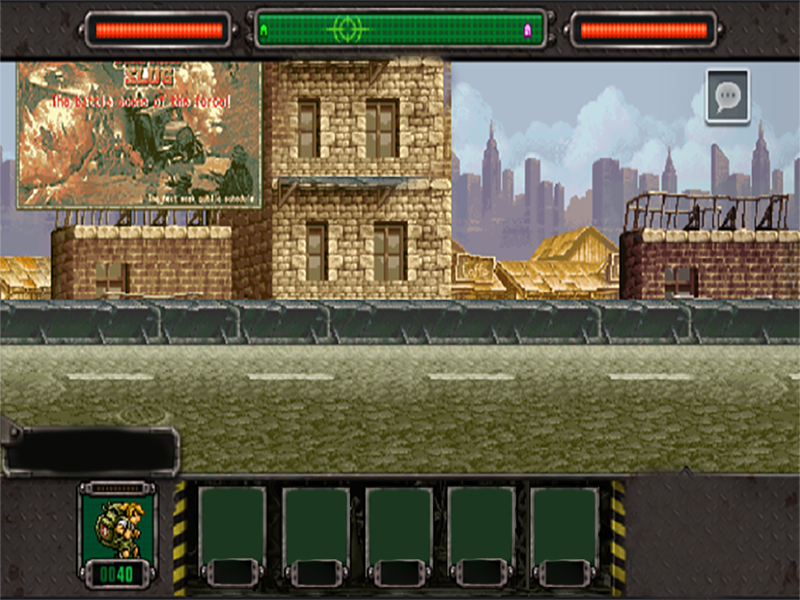
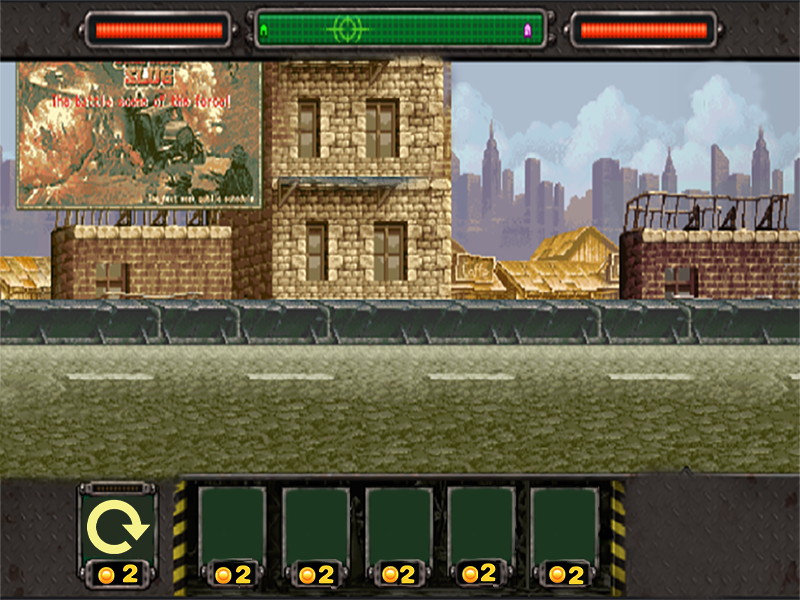
남은 구현 사항 합성 리롤

diff --git a/2d게임 최종프로젝트/Marco.py b/2d게임 최종프로젝트/Marco.py
@@ -6,6 +6,7 @@ import game_framework
 import main_state
 from BehaviorTree import BehaviorTree, SelectorNode, SequenceNode, LeafNode
 from pynput.mouse import Controller
+import Bullet
 
 # gun_c Action Speed
 TIME_PER_ACTION = 0.5
@@ -24,49 +25,46 @@ key_event_table = {
 
 class Idle_State:
     @staticmethod
-    def enter(double_gun_chac, event):
+    def enter(marco, event):
         if event == Left_Mouse_Down:
             global x, y
             # 이미 눌러진 상태면은 이동
-            if double_gun_chac.selected and double_gun_chac.attack_state == False:
-                double_gun_chac.x = x
-                double_gun_chac.y = 600 - 1 - y
-                double_gun_chac.selected = False
+            if marco.selected and marco.attack_state == False:
+                marco.x = x
+                marco.y = 600 - 1 - y
+                marco.selected = False
                 main_state.Money -= 2
             # 캐릭터 클릭 및 취소
             else:
-                if double_gun_chac.x - 50 < x < double_gun_chac.x + 50 and \
-                        double_gun_chac.y - 50 < 600 - y - 1 < double_gun_chac.y + 50:
-                    double_gun_chac.selected = True
+                if marco.x - 50 < x < marco.x + 50 and \
+                        marco.y - 50 < 600 - y - 1 < marco.y + 50:
+                    marco.selected = True
                 else:
-                    double_gun_chac.selected = False
+                    marco.selected = False
         pass
 
     @staticmethod
-    def exit(double_gun_chac, event):
+    def exit(marco, event):
         pass
 
     @staticmethod
-    def do(double_gun_chac):
-        double_gun_chac.frame = (double_gun_chac.frame + 1) % 6
-        double_gun_chac.attack_frame = (double_gun_chac.attack_frame + 1) % 6
+    def do(marco):
+        marco.frame = (marco.frame + 1) % 3
+        marco.attack_frame = (marco.attack_frame + 1) % 4
         pass
 
     @staticmethod
-    def draw(double_gun_chac):
-        if not double_gun_chac.attack_state:
-            double_gun_chac.image.clip_draw(double_gun_chac.frame * 100, 0, 100, 100, double_gun_chac.x,
-                                            double_gun_chac.y)
-            double_gun_chac.image_hp.clip_draw(0, 0, double_gun_chac.hp, 11, double_gun_chac.x - 13, double_gun_chac.y - 50)
-            if double_gun_chac.selected:
-                draw_rectangle(*double_gun_chac.get_bb())
+    def draw(marco):
+        if not marco.attack_state:
+            marco.image.clip_draw(marco.frame * 100, 200, 100, 100, marco.x, marco.y)
+            marco.image_hp.clip_draw(0, 0, marco.hp, 11, marco.x - 13, marco.y - 50)
+            if marco.selected:
+                draw_rectangle(*marco.get_bb())
         else:
-            double_gun_chac.image.clip_draw(double_gun_chac.frame * 100, 200, 80, 100, double_gun_chac.x,
-                                            double_gun_chac.y)
-            double_gun_chac.image_attack.clip_draw(double_gun_chac.attack_frame * 130, 0, 120, 150,
-                                                   double_gun_chac.x + 70, double_gun_chac.y + 40)
-            double_gun_chac.image_hp.clip_draw(0, 0, double_gun_chac.hp, 11, double_gun_chac.x - 13, double_gun_chac.y - 50)
-            double_gun_chac.mp += 10
+            marco.image.clip_draw(marco.attack_frame * 100, 0, 100, 100, marco.x, marco.y + 5)
+            marco.image_hp.clip_draw(0, 0, marco.hp, 11, marco.x - 13, marco.y - 50)
+
+            marco.mp += 10
 
         delay(0.15)
         pass
@@ -77,20 +75,20 @@ next_state_table = {
 }
 
 
-class Double_Gun_Character:
-    image =None
+class Marco:
+    bullet = None
+    image = None
     def __init__(self):
-        self.x, self.y = 230, 85
-        if Double_Gun_Character.image == None:
-            self.image = load_image('image/Double_gun_mode.png')
-            self.image_attack = load_image('image/gun_fire2.png')
+        self.x, self.y = 320, 180
+        if Marco.image ==None:
+            self.image = load_image('image/marco.png')
             self.image_hp = load_image('image/hp.png')
         self.attack_frame = 0
         self.frame = 0
         self.hp = 100
         self.mp = 0
+        self.damage = 5
         self.attack_state = False
-        self.attack_damage = 5
         self.event_que = []
         self.cur_state = Idle_State
         self.cur_state.enter(self, None)

diff --git a/2d게임 최종프로젝트/main_state.py b/2d게임 최종프로젝트/main_state.py
@@ -1,16 +1,22 @@
-import random
-import json
-import os
-import  game_world
-
 from pico2d import *
-
+import game_world
 import game_framework
 import title_state
-import Member_function
-from Map import Game_Map
+import clear_stage
 from Double_Gun_Charcter import Double_Gun_Character
+from Map import Game_Map
 from zombie_female import Zombie
+from Marco import Marco
+from Bullet import Bullet
+'''''''''
+남은 구현 사항
+합성
+리롤
+게임 돈 표시
+스테이지 남은 몹 표시
+엔딩 보스몹
+마르코 공격 상태
+'''''''''
 
 name = "MainState"
 
@@ -18,13 +24,25 @@ game_map = None
 double_gun_character = None
 zombie = None
 double_gun_character1 = None
+marco = None
+bullets = None
+fire = False
+Money = 50
+stage = 2
 
 
 def enter():
-    global game_map, double_gun_character, zombie
+    global game_map, double_gun_character, zombie, marco, bullets
+
+    marco = Marco()
+    bullets = [Bullet()]
     game_map = Game_Map()
     double_gun_character = Double_Gun_Character()
     zombie = Zombie()
+    game_world.add_object(game_map, 0)
+    game_world.add_object(zombie, 1)
+    game_world.add_object(double_gun_character, 1)
+    game_world.add_object(marco, 1)
     pass
 
 
@@ -41,10 +59,7 @@ def collide(a, b):
 
 
 def exit():
-    global game_map, double_gun_character,zombie
-    del game_map
-    del double_gun_character
-    del zombie
+    game_world.clear()
     pass
 
 
@@ -65,30 +80,62 @@ def handle_events():
             game_framework.change_state(title_state)
         else:
             double_gun_character.handle_event(event)
+            marco.handle_event(event)
 
     pass
 
 
 def update():
-    global game_map, double_gun_character, zombie
+    global game_map, double_gun_character, zombie, marco, bullets, fire,stage
+    if stage == 0:
+        game_framework.push_state(clear_stage)
+
     if collide(zombie, double_gun_character):
         zombie.attack_state = True
         double_gun_character.attack_state = True
         zombie.hp -= double_gun_character.attack_damage
+        double_gun_character.hp -= zombie.damage
     else:
         zombie.attack_state = False
         double_gun_character.attack_state = False
-    if zombie.hp <=0:
+    if collide(zombie, marco):
+        zombie.attack_state = True
+    # 총알이랑 판정
+    if marco.attack_state:
+        for bullet in bullets:
+            if collide(zombie, bullet):
+                bullets.remove(bullet)
+                zombie.hp -= bullet.damage
+                game_world.remove_object(bullet)
+
+        if marco.attack_state and marco.attack_frame == 2:
+            bullets.append(Bullet())
+            for bullet in bullets:
+                bullet.x = marco.x
+                bullet.y = marco.y
+                game_world.add_objects(bullets, 1)
+
+        for bullet in bullets:
+            if bullet.x >= 800:
+                bullets.remove(bullet)
+
+    if zombie.hp and zombie.y-50<marco.y < zombie.y+50 > 0:
+        marco.attack_state = True
+
+    if zombie.hp <= 0:
         double_gun_character.attack_state = False
-    double_gun_character.update()
-    zombie.update()
+        marco.attack_state = False
+
+    for game_object in game_world.all_objects():
+        game_object.update()
+
     pass
 
 
 def draw():
     clear_canvas()
-    game_map.draw()
-    zombie.draw()
-    double_gun_character.draw()
+
+    for game_object in game_world.all_objects():
+        game_object.draw()
     update_canvas()
     pass

diff --git a/2d게임 최종프로젝트/zombie_female.py b/2d게임 최종프로젝트/zombie_female.py
@@ -32,7 +32,7 @@ class Zombie:
     images = None
 
     def __init__(self):
-        positions = [(1500, 400), (-100, 400)]
+        positions = [(900, 400), (-100, 400)]
         self.patrol_positions = []
         for p in positions:
             self.patrol_positions.append((p[0], 600 - p[1]))  # convert for origin at bottom, left
@@ -40,12 +40,14 @@ class Zombie:
             self.target_x, self.target_y = None, None
             self.x, self.y = self.patrol_positions[0]
             self.attack_state = False
+            self.image_hp = load_image('image/hp.png')
 
         load_images()
         self.hp = 100
         self.dir = 0
         self.speed = 0
         self.frame = 0
+        self.damage = 1
         self.build_behavior_tree()
 
     def calculate_current_position(self):
@@ -70,8 +72,9 @@ class Zombie:
         pass
 
     def dead(self):
+        main_state.stage -= 1
         self.x = 900
-        self.y = 600 - 400 - 1
+        self.y = 180
         self.attack_state = False
         self.hp = 100
         return BehaviorTree.SUCCESS
@@ -123,8 +126,12 @@ class Zombie:
         if math.cos(self.dir) < 0:
             if self.speed != 0 and self.attack_state == False and self.hp>0:
                 Zombie.images['Walk'][int(self.frame)].composite_draw(0, 'h', self.x, self.y, 100, 100)
+                self.image_hp.clip_draw(0, 0, self.hp, 11, self.x - 13, self.y - 50)
+
             elif self.attack_state:
                 Zombie.images['Attack'][int(self.frame)].composite_draw(0, 'h', self.x, self.y, 100, 100)
+                self.image_hp.clip_draw(0, 0, self.hp, 11, self.x - 13, self.y - 50)
+
         else:
             if self.speed != 0 and self.attack_state == False and self.hp>0:
                 Zombie.images['Walk'][int(self.frame)].draw(self.x, self.y, 100, 100)

diff --git a/2d게임 최종프로젝트/clear_stage.py b/2d게임 최종프로젝트/clear_stage.py
@@ -1,0 +1,53 @@
+import game_framework
+import main_state
+from pico2d import *
+
+name = "Clearstate"
+image = None
+
+
+def enter():
+    global image
+    image = load_image('image/stage_clear.png')
+    pass
+
+
+def exit():
+    global image
+    del image
+    pass
+
+
+def handle_events():
+    events = get_events()
+    for event in events:
+        if event.type == SDL_QUIT:
+            game_framework.quit()
+        else:
+            if (event.type, event.key) == (SDL_KEYDOWN, SDLK_ESCAPE):
+                game_framework.quit()
+            elif (event.type, event.key) == (SDL_KEYDOWN, SDLK_SPACE):
+                main_state.stage = 2
+                game_framework.pop_state()
+
+
+    pass
+
+
+def draw():
+    clear_canvas()
+    image.draw(400, 300)
+    update_canvas()
+    pass
+
+
+def update():
+    pass
+
+
+def pause():
+    pass
+
+
+def resume():
+    pass

diff --git a/2d게임 최종프로젝트/Bullet.py b/2d게임 최종프로젝트/Bullet.py
@@ -1,0 +1,30 @@
+from pico2d import *
+import game_world
+
+import game_framework
+
+class Bullet:
+    image = None
+    def __init__(self, x =400, y =200):
+        if Bullet.image == None:
+                Bullet.image = load_image('image/bullet_attack.png')
+
+        self.x = x
+        self.y = y
+        self.attack_speed = 40
+        self.damage = 50
+
+    def get_bb(self):
+        return self.x - 50, self.y - 50, self.x + 50, self.y + 50
+
+        pass
+
+    def update(self):
+        self.x += self.attack_speed
+        if self.x >= 800:
+            game_world.remove_object(self)
+        pass
+
+    def draw(self):
+        self.image.draw(self.x+40,self.y+22)
+        pass

diff --git a/2d게임 최종프로젝트/game_world.py b/2d게임 최종프로젝트/game_world.py
@@ -8,6 +8,10 @@ def add_object(o, layer):
     objects[layer].append(o)
 
 
+def add_objects(l, layer):
+    objects[layer] += l
+
+
 def remove_object(o):
     for i in range(len(objects)):
         if o in objects[i]:

diff --git a/2d게임 최종프로젝트/Map.py b/2d게임 최종프로젝트/Map.py
@@ -7,3 +7,6 @@ class Game_Map:
 
     def draw(self):
         self.image.draw(400, 300)
+
+    def update(self):
+        self.image.draw(400, 300)
